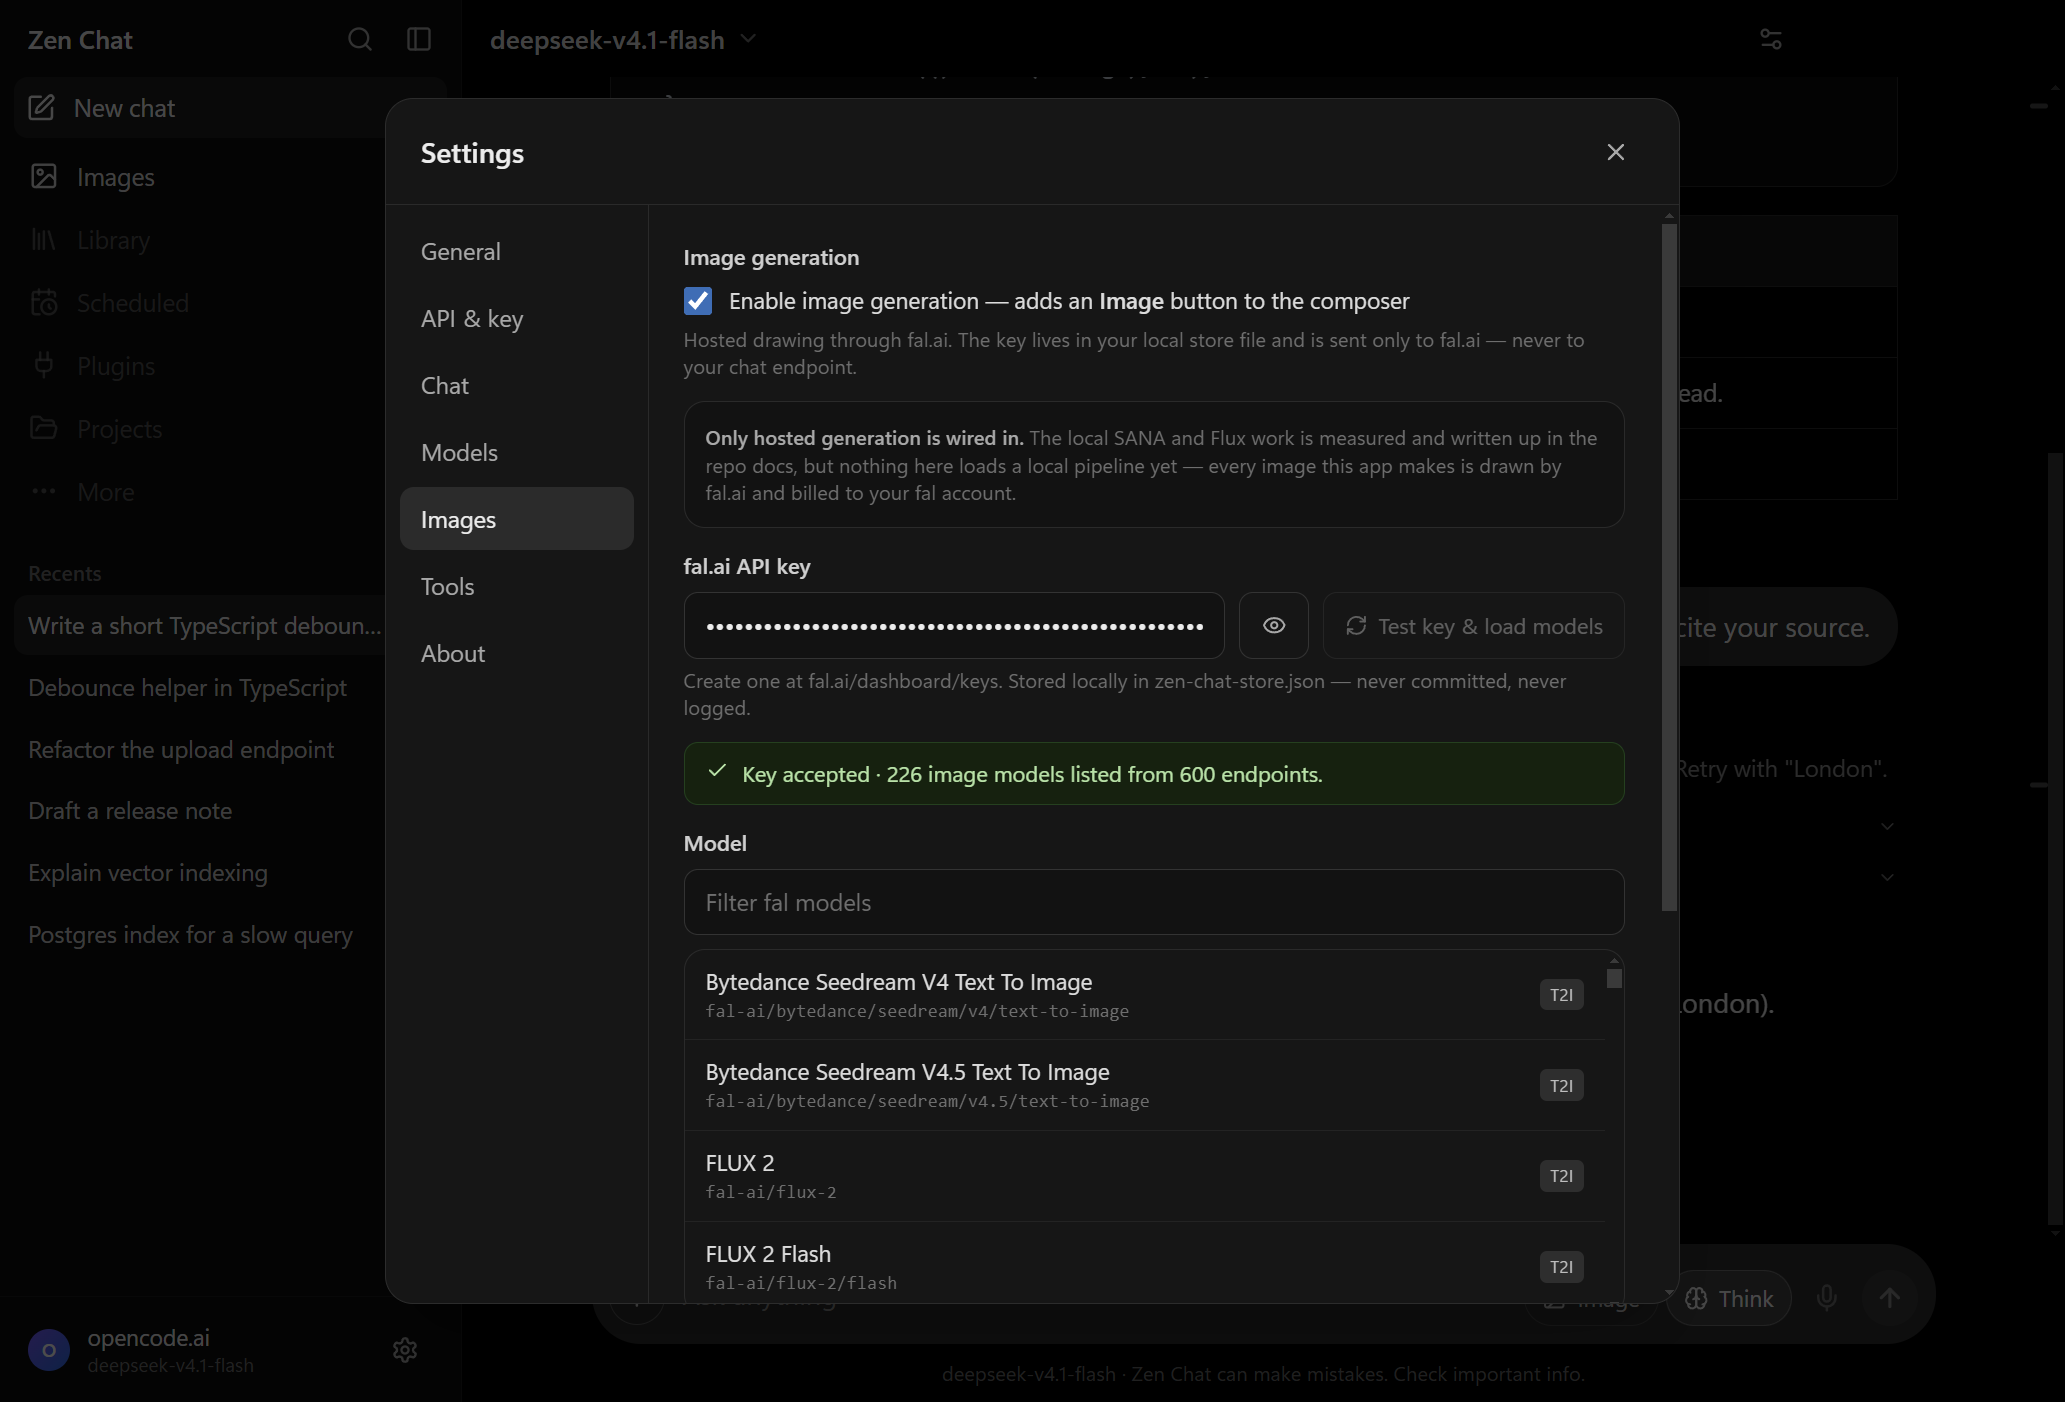
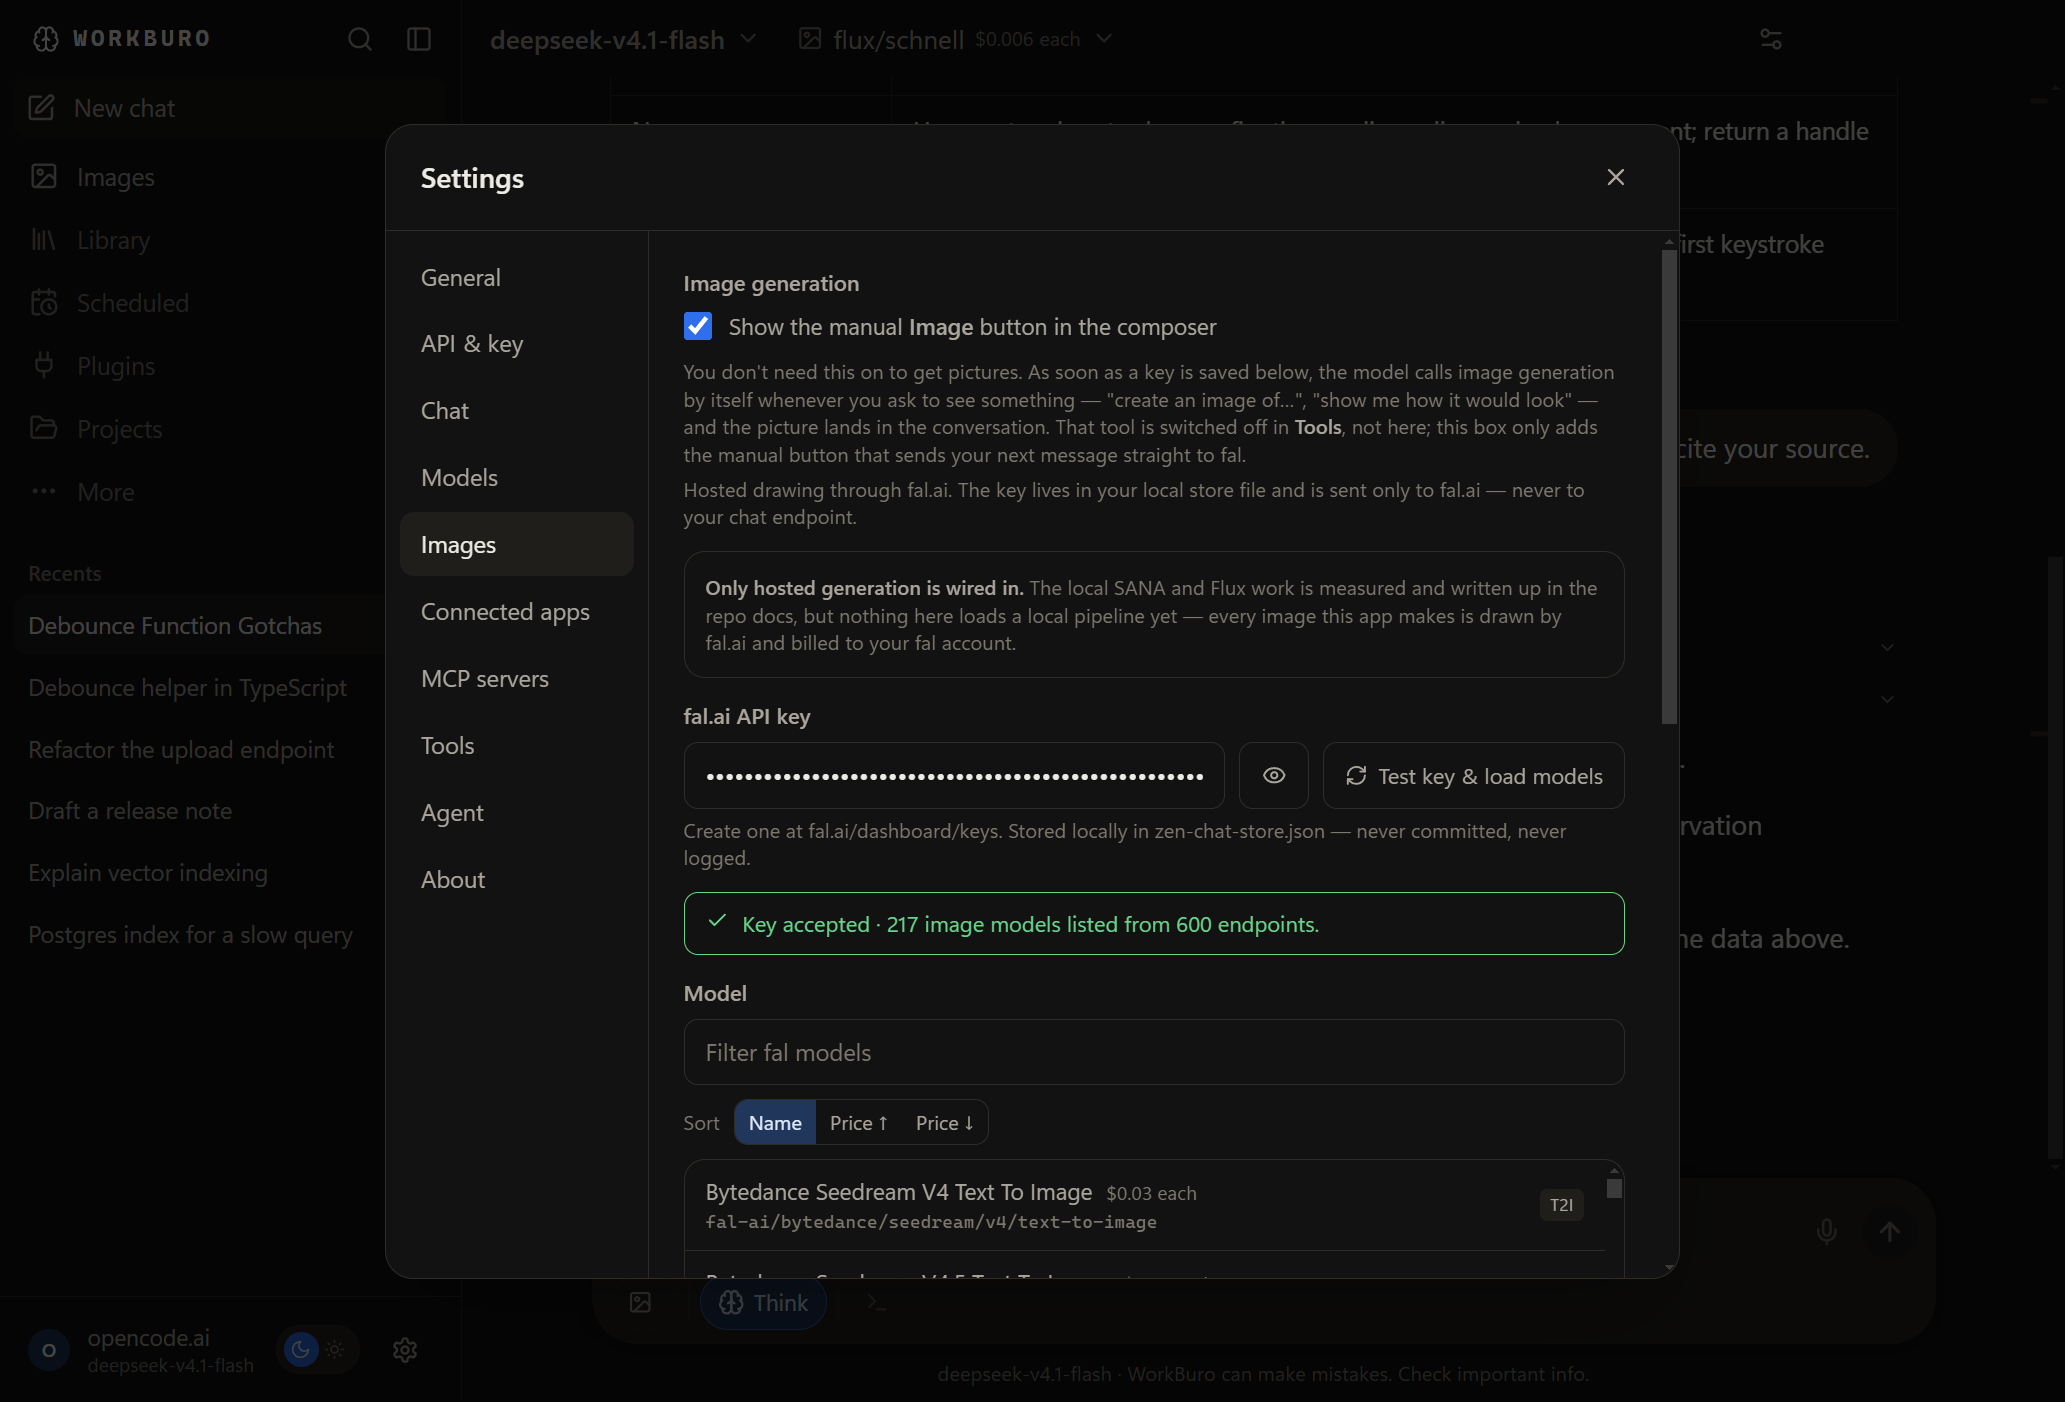
README: a chat app that uses LLMs, agents in the why, five new screenshots
'What it is' now says it is a chat app for Windows that talks to any
OpenAI-compatible LLM. 'Why we made it' gains quick access to agents inside the
same chat app as its second bullet. Five screenshots replace the old ones: the
answer with a code block, a table and a thinking block, a cited weather tool, a
drawn picture with the composer reference, the fal.ai model list with prices,
and the API and key tab.

capture fixes found while making them:
- the key now comes from the environment, as the seed already did; it was being
  overwritten with an empty string, so every live answer failed and the shots
  came out blank
- the real profile lives under WorkBuro, not zen-chat, so the config merge had
  been silently falling through to defaults since the rename
- the endpoint and model are pinned to the hosted relay, so a local endpoint in
  the real profile cannot end up in a public screenshot
- a missing build/icon.png inside the asar no longer crashes the run after the
  shots have been taken

diff --git a/README.md b/README.md
@@ -18,12 +18,13 @@
 
 ## What it is
 
-**WorkBuro** is a **small Windows app** that answers on **one keystroke**, works with **any OpenAI-compatible endpoint**, and can run a **model on your own machine** with **no account at all**.
+**WorkBuro** is a **chat app for Windows** that talks to **any OpenAI-compatible LLM**, answers on **one keystroke**, can run a **model on your own machine** with **no account at all**, and turns any of them into an **agent** when a job needs hands.
 
 ## Why we made it
 
 - The **best part** of an AI assistant is the **model**, and the **worst part** is everything in front of it: the **tab**, the **sign-in**, the **wait**.
 - A **hotkey** beats a **tab**. **Alt+Space** over whatever you are doing, a question, an answer, gone.
+- We wanted **quick access to agents** inside the same chat app. Flip **Agent** on and the model gets **hands** in a folder you can see, then flip it off again. No second app, no **terminal**, no session left running.
 - It should **do something**, not only talk: ask for a spreadsheet and get a **real .xlsx** in a **real folder**.
 - We wanted **no second subscription**. Point it at the endpoint you **already pay for**, or at a **model on your own machine**.
 - The interface is **familiar**, and everything underneath is **yours**: your **key**, your **endpoint**, your **files**.
@@ -38,6 +39,8 @@
 - **Real files out.** Say "**save a CSV of three fruits and their quantities**" and you get a real **.csv**, **.xlsx**, **.docx**, **.pdf**, **.md**, **.json** or **.txt** in **Documents\WorkBuro**, shown on the reply with **Open** and **Show in folder**.
 - **Documents in.** Attach a **PDF**, **Word**, **Excel**, **CSV**, **Markdown** or **text** file and the model answers from what is inside it. One it cannot read comes back as a **reason you can see**, not an empty answer.
 - **Pictures both ways.** Ask to see something and it **draws it**. Send a picture and it can **change it from your words**, or **look at it and answer**.
+
+  ![WorkBuro drawing a picture from a prompt, then offering to edit it, with the finished image attached to the composer as a reference](docs/screenshots/readme-composer.png)
 - **A brief burst of agent work.** Flip **Agent** on and the model gets **shell** and **file** tools inside a **folder you can see**, then you flip it off again. Nothing installs or schedules in the background.
 - **No key at all?** It will run a **small model on your machine**. One **429 MB** download, then about a **second to an answer**, with **no account** and **no browser**.
 
@@ -47,7 +50,11 @@
 - **Model discovery and real capability checks.** It reads **/models** from your endpoint, and the **lightning button** makes a **real call** to find out whether a model takes **images**, whether it **reasons**, and which **wire protocol** it wants. What it learns is **remembered**, so you stop guessing which of three similarly named models can really see.
 - **It copes with awkward endpoints.** **Chat Completions** first, and the **Responses API** by itself when an endpoint refuses the first. Relay quirks such as **session headers**, a missing **User-Agent**, or **/v1** pasted twice become **readable errors** instead of mystery HTML.
 - **Tools the model can call.** **Web search** through your own **SearXNG**, **read a page**, **weather**, **time**, **make a file**, your own **connected apps** through your own **Composio** key, and any **MCP servers** you add.
+
+  ![WorkBuro calling a live weather tool and citing where the answer came from](docs/screenshots/readme-tools.png)
 - **Images.** **fal.ai**'s live catalogue, each endpoint with its **published price**, prompts written by the model, **progress** while it draws, and a **gallery** in the sidebar of everything you have sent or drawn.
+
+  ![WorkBuro's fal.ai image model list, with live prices and filters](docs/screenshots/readme-images.png)
 - **Made for a desktop.** A **small window** that **remembers its size**, **starts with Windows** if you want, **stays above** other windows, and **tucks itself away** 30 seconds after you leave it, unless an answer is still arriving.
 - **Local-first.** **No telemetry** and no backend. Every conversation lives in **one JSON file** you can open, back up or hand-edit.
 - **Small enough to read.** A few thousand lines of **TypeScript** and **CommonJS**, and a **self-test** that drives the **real window** instead of a mock.
